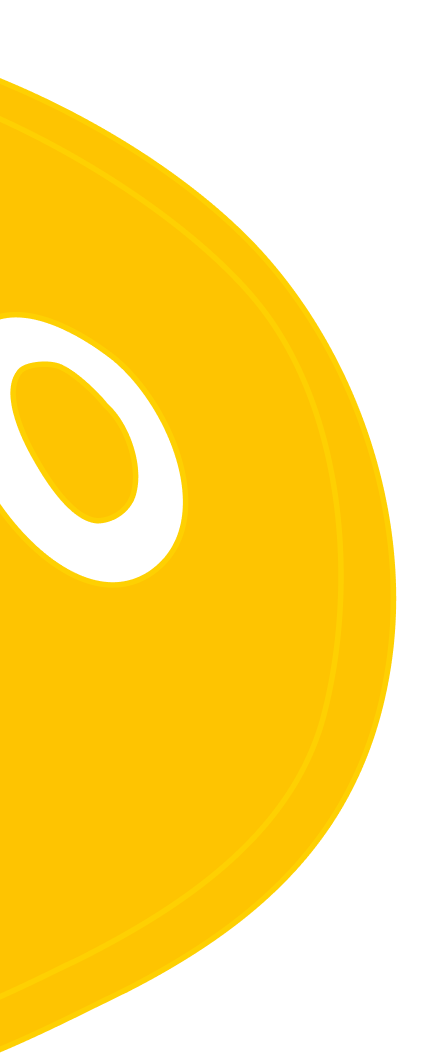
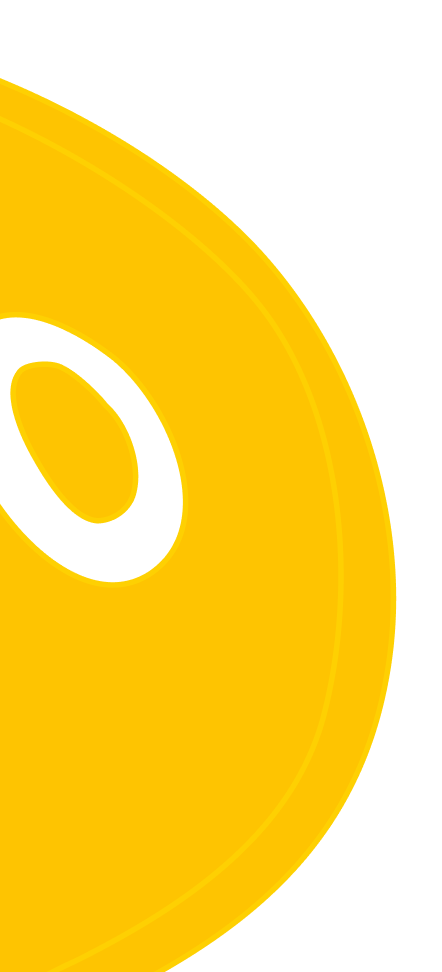
new save

Changed region(s): [[0.0, 0.0926, 0.9118, 1.0], [0.0, 0.2778, 0.4118, 0.6173], [0.0, 0.0617, 0.0882, 0.0926]]

diff --git a/components/Pages/JoinUs/Career.js b/components/Pages/JoinUs/Career.js
@@ -82,8 +82,8 @@ const Career = () => {
       <div>
         <div className={styles['image-1']}>
           <Image
-            width={480}
-            height={850}
+            // width={480}
+            // height={850}
             src={png1}
           />
         </div>

diff --git a/components/Pages/JoinUs/Career.module.scss b/components/Pages/JoinUs/Career.module.scss
@@ -141,7 +141,8 @@
     }
   }
   .image-1 {
-    top: 995px;
+    top: 832px;
+    left: 0;
     position: absolute;
   }
   .image-2 {
